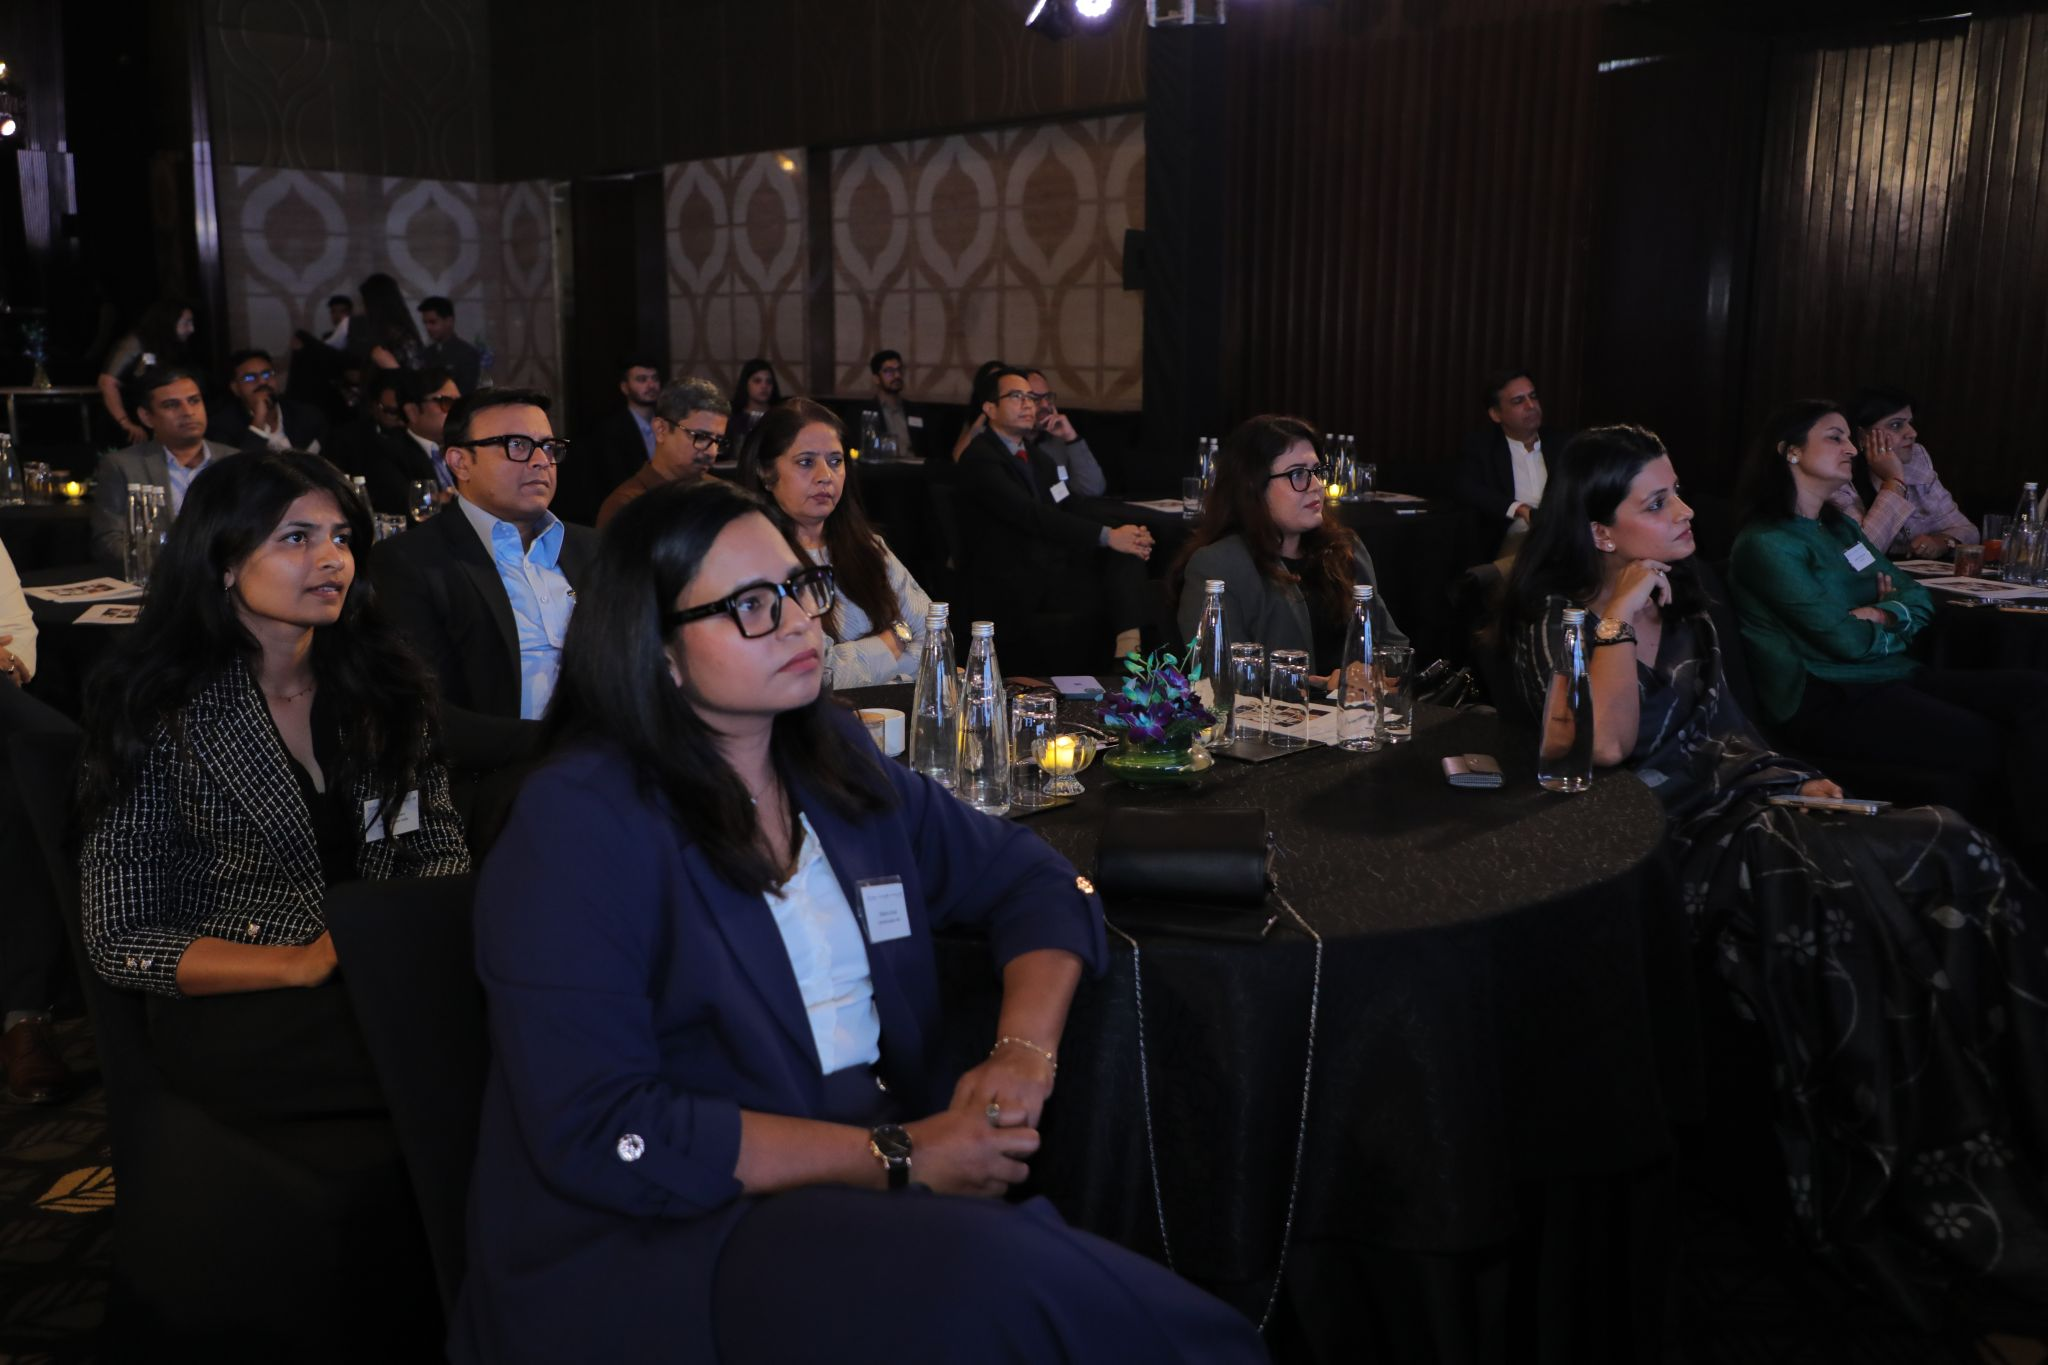
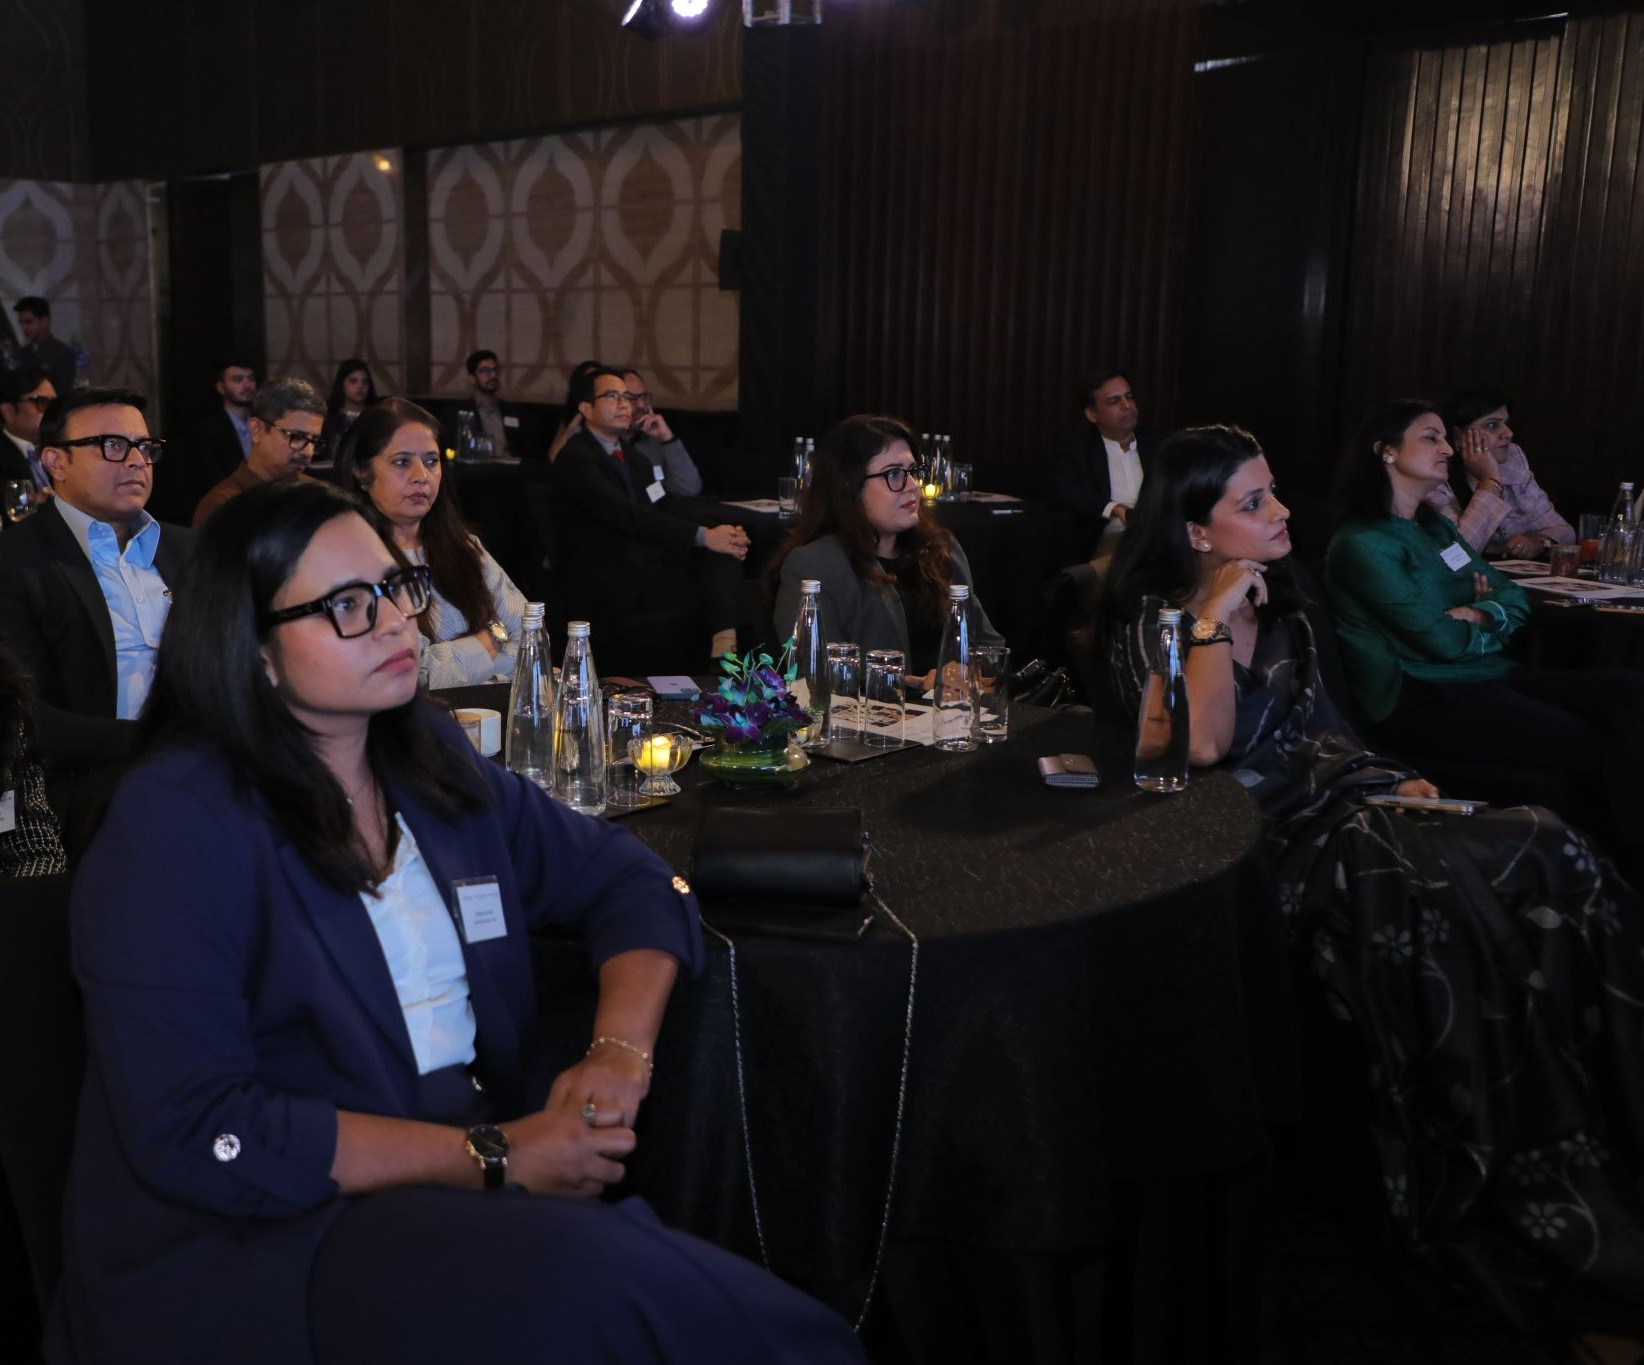
join-us changes

diff --git a/join-us.html b/join-us.html
@@ -1119,7 +1119,7 @@ background: linear-gradient(
                                   <!-- Slide 3 -->
                                 <div class="swiper-slide">
                                     <div class="team-card">
-                                        <img src="assets/images/team-photos/jd-india-team.jpeg" alt="Team Member 3"
+                                        <img src="assets/images/team-photos/jd-india-team-4 1.jpg" alt="Team Member 3"
                                             class="team-card-img">
                                         <div class="team-card-overlay">
                                           
@@ -1130,7 +1130,7 @@ background: linear-gradient(
                                 <!-- Slide 4 -->
                                 <div class="swiper-slide">
                                     <div class="team-card">
-                                        <img src="assets/images/team-photos/jd-india-team-3.jpeg" alt="Team Member 4"
+                                        <img src="assets/images/team-photos/jd-india-team-3.jpg" alt="Team Member 4"
                                             class="team-card-img">
                                         <div class="team-card-overlay">
                                         </div>
@@ -1149,6 +1149,24 @@ background: linear-gradient(
                                 <div class="swiper-slide">
                                     <div class="team-card">
                                         <img src="assets/images/team-photos/jd-team-5.jpeg" alt="Team Member 4"
+                                            class="team-card-img">
+                                        <div class="team-card-overlay">
+                                        </div>
+                                    </div>
+                                </div>
+                                <!-- Slide 4 -->
+                                <div class="swiper-slide">
+                                    <div class="team-card">
+                                        <img src="assets/images/team-photos/Offsite.jpg" alt="Team Member 4"
+                                            class="team-card-img">
+                                        <div class="team-card-overlay">
+                                        </div>
+                                    </div>
+                                </div>
+                                <!-- Slide 4 -->
+                                <div class="swiper-slide">
+                                    <div class="team-card">
+                                        <img src="assets/images/team-photos/offsite 2.jpg" alt="Team Member 4"
                                             class="team-card-img">
                                         <div class="team-card-overlay">
                                         </div>
